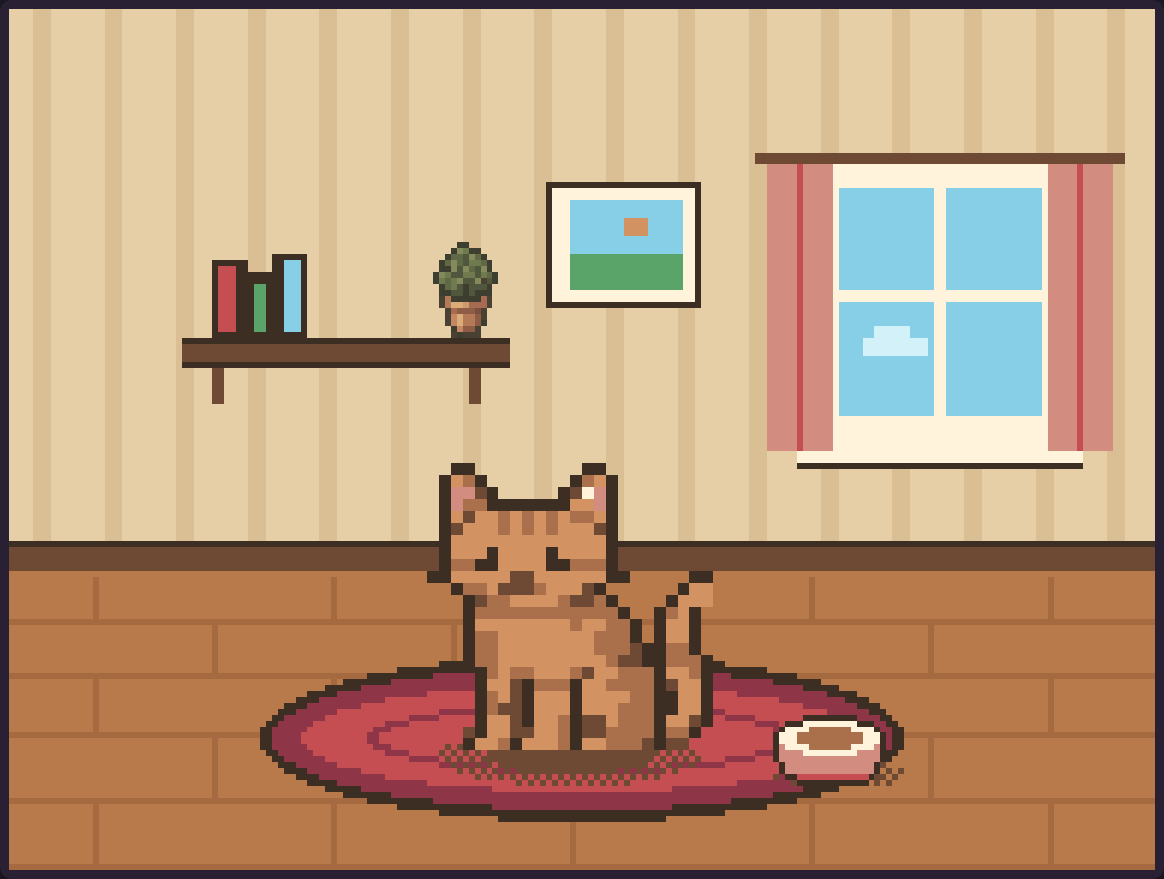
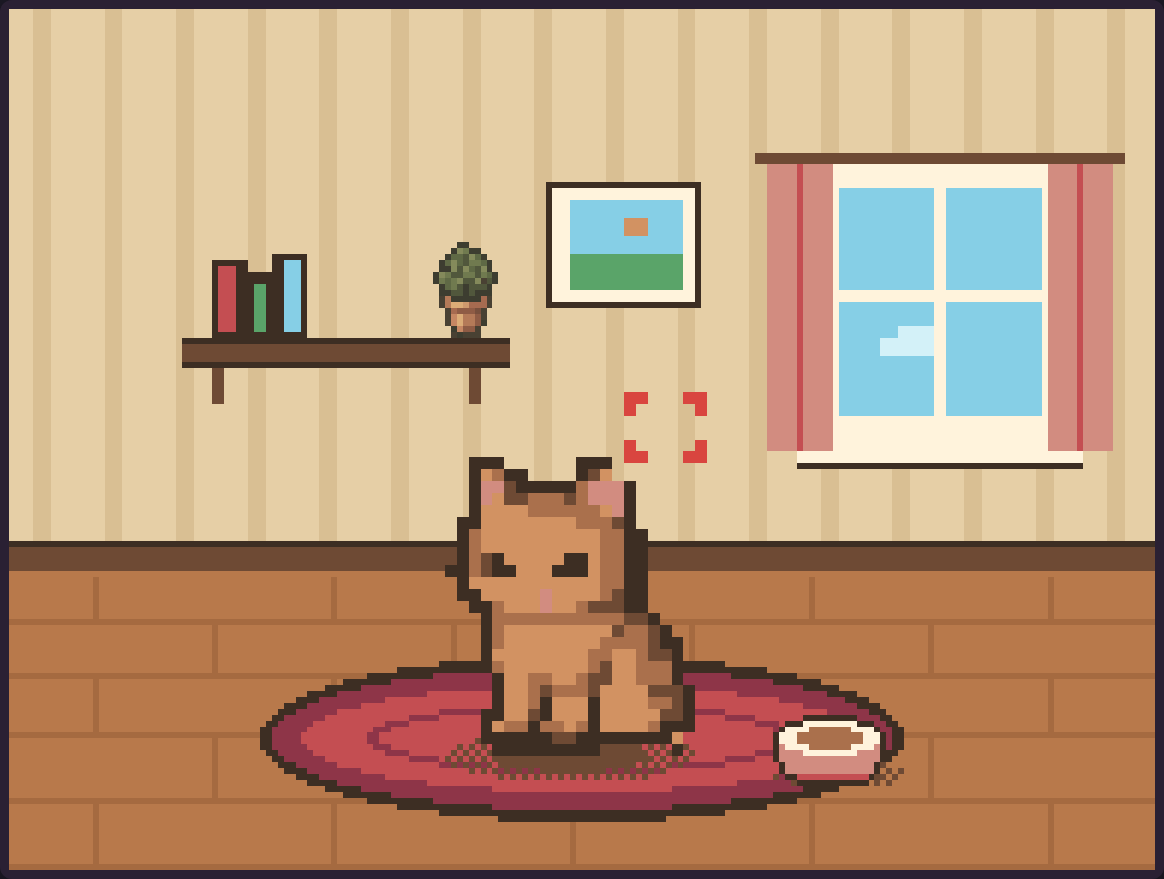
Позы кота сняты с референсов: спит, плачет, голодный, больной, злой
Claude-Session: https://claude.ai/code/session_01Qao8M8JoHe6UePoZCqr7mk

Changed region(s): [[0.3711, 0.43, 0.6186, 0.8908], [0.5876, 0.43, 0.6186, 0.5222], [0.7423, 0.3686, 0.8041, 0.3993]]

diff --git a/pixel-pet/js/assets.js b/pixel-pet/js/assets.js
@@ -1,3 +1,3 @@
 // СГЕНЕРИРОВАНО из картинок-референсов (попиксельный перенос). Руками не править.
 // Буквы — индексы цветов палитры, «.» — прозрачно.
-window.Assets = {"plants": {"pal": ["#3d3d30", "#494133", "#51573c", "#78503d", "#5f6945", "#6d545c", "#8f5c45", "#707a4f", "#7f6172", "#a66b50", "#848a5b", "#b47a58", "#9a9464", "#c58763", "#ab8099", "#b5a575", "#a8a087", "#ce996d", "#dbac77", "#cab589", "#c0bcab", "#dfca9c", "#eddcba", "#f3e9cc"], "list": [["...A.C..", ".ABVBCA.", ".ANSNRB.", "AVSDBRSA", ".ALCBGB.", "AVSBDTSA", ".ANSLRB.", ".AAVABA.", "...ACU..", "AAAXCBAA", ".BHBKHE.", "..AEEB..", ".AAAAAA.", ".DNSRJB.", ".BGGGDB.", "..BSLG..", "..BSLD..", "...BB..."], ["....AA.....", "...AKHAA...", "..AEECKEA..", ".AEKECHHEA.", ".AAKCKECKA.", "AKHCCHHCHEA", "AHEHKCCKBCA", ".AEHCACCCA.", ".AACCACAAA.", ".BLAAAAAJB.", ".BLSSRJJJB.", "..BJGGGDB..", "..BNSLLGB..", "..BNSLLGA..", "...ANGGB...", "...BABBB..."], ["...AA...", "..FIIA..", ".AAFFA..", ".BIBB...", "AOFAXAA.", ".BAEAIIA", "...HBIFA", "AA.AEAA.", "AKQA....", ".ACA.AA.", "..BAAHA.", "..KACA..", ".AAAAAA.", ".BLNLJB.", "..BGDB..", "..BJGB..", "..AJGB..", "...BB..."], [".....A......", ".....A......", ".....A......", "....BAA.....", "....AAA.....", ".....B......", "...B.B.B....", ".AAB.B.B.AA.", "AEKKAB.ACC..", "..AEKABKHAA.", ".ACCHACKAAEA", "ACHEEEMCKEA.", "AHAAAKPCABEA", "AABGGAPADBAE", "A.ADGDAADB.A", "..AGNJAGDB..", "..AGLJJDDB..", "...ADDGCA...", "....ABBB...."], ["....AA....", "...AHKA...", ".A.AMMC...", "AMAAPKC.A.", "AMAAPKAAKA", "AKEAPHAAKA", ".AEHPKACHA", "..AAMHCEA.", "....EHAA..", "....CCB...", "..BBBAABB.", "..BLSRJJB.", "...BJJGB..", "...BNRGB..", "...BNRGB..", "....BBB..."], ["AAAA...AAAA", "AHKKA.AEHCA", "AKEKEAHMBA.", ".AMEEAHAA..", "..AAEACAHBA", ".ACBAEBHCA.", "AHMKCECAA..", "AHHAAEAAAA.", "AHABBAACJB.", ".BJRRRJJGB.", "..BJGGDDB..", "..BNSNLGB..", "..BNSNLGB..", "...BNLJB...", "...BBBBB..."], ["...AB...", "..BNDA..", ".ALDGGB.", ".AJLJBB.", "..BGDA..", "...AA...", "AA......", "AHA..AAA", ".ACAAKHA", "..AABEA.", "...AA...", ".AAAAAB.", ".AJNGGB.", "..BGDB..", "..BLGB..", "...BA..."], ["...QKK.....", "..MAAAC....", "..ACKECAB..", ".AEEEEEHCB.", "AKCCKEMKCCA", "ACHCCEEEECA", "AEBCEBCCCCB", ".ABBABABBB.", ".APVVVMMEB.", ".ACHKMKCBK.", "..ATVTMBB..", "..APTPKBB..", "..AEMMHBB..", "...AAAAQ..."], [".........AAA.", ".AAA....ACC..", "..ACA..AHA...", "...AHA.AHHAA.", "....ACAECA...", ".AAAWEBHA..AA", "AACKCBCHAABH.", "...AHACCAKCA.", "..ACAHAACCACA", ".ACAAEAACA..A", ".A.BBBBBBBB..", "...BJNNJJJB..", "....BDDDDB...", "....BNNJGB...", "....BJNGGB...", ".....BGGB....", ".....BBBB...."], [".....AA.....", "...AANJA.A..", "..AKLJNGALA.", "...AALGAEA..", ".ABNBABEEAA.", ".ARGJBBCRHB.", "AHBNDAMCCAEB", "AACACBCACCA.", ".AAABAAAAAA.", ".BNSSSSSRJB.", ".BDDDDDDDDB.", "..BNNLJLGB..", "..BNRRRLGB..", "..BLRRRLGB..", "..BLLJJJDB..", "...AABBBB..."], ["....AA...", "...AHB...", "AAAAHB...", "AKCACWAAA", ".AHEABHKA", "..ABACKA.", "....AAA..", ".AA.A....", "..ACA....", "....AEAB.", ".ABAAAAB.", ".BLRRJJB.", "..BGGDB..", "..BNJGB..", "..BLJGB..", "...BBB..."], [".AA...AA.", "AKHA.AMEA", "AMHCAHMCA", "AKEEAKHCA", ".AECAHHA.", "..AAHAA..", "....A....", "....A....", ".BB.A.BB.", "BBBBBBBBB", "APVVVTPPB", ".AKMKKKB.", ".ATVPPMB.", ".ATVTPMB.", ".APTPPHB.", "..AMMMB..", "..AAABB.."], ["..A..A..", ".AKAAMA.", ".AKHAMA.", ".AHEMHA.", "..AEMEA.", "..AHMC..", "AAWAHC..", ".EAAEABA", ".QEEAEA.", "AAABABBB", "APTVVPPB", ".BMMMMB.", ".APVPMB.", ".APTPKB.", "..AMMA..", "..AAAA.."], ["..A.A..", ".ANGJ..", ".ALNJA.", ".ARNJA.", ".ANNJA.", "..BDA..", "...A...", "AA.A.AA", "AHBACKA", ".AEAHA.", ".ACACA.", "BBBABBB", "BJRSLJB", ".BGGGB.", ".BRLGB.", ".BNLGB.", "..BBB.."], ["....AA.....", "...AXPA.A..", "..ABPWCACA.", ".AHAAHABXTA", ".AAWBEAHPVA", "APVPHAXEAA.", "AXTAHXVWACA", ".AAHAMXTHA.", "..AACACAHHA", ".AACACACAA.", "..ABBBBBBB.", "..BJRRNJJB.", "...BGDDDB..", "...BJRJGB..", "...BJRJDB..", "....BJDB...", "....BBBB..."], ["...AA...", "..AXTA..", ".AWVSWA.", ".AVSNTA.", "..AWTA..", "...AA...", "AA..A.AA", ".EA.AAHA", ".ACBACA.", "..ACAA..", ".AAAAAAB", ".ALRSJJB", "..BGGDB.", "..BRLGB.", "..BNLGB.", "...BBB.."]]}, "items": {"pal": ["#352b1f", "#413325", "#414839", "#5e4128", "#4a554b", "#755334", "#8b5c3b", "#686e4c", "#566964", "#7f7a54", "#9f6e45", "#667b75", "#b1794f", "#b28b5e", "#c79b64", "#bda47d", "#d9b072", "#c7beac", "#e9ce95", "#eddaaf"], "tunnel": ["............PPPPPPPPPPPPPPPR...........", "............AAAAAAAAAAAAAAAB...........", "..........ABDDDDDDDDDDDDDDDDBBBD.......", "..........AAFFGGKKGGGGGGGGGGAAAB.......", "........BADDKGKGGGGGGGGKKGGFDDBBAP.....", "........AAGGMMMMGFKMGGKKMKGFGFDDAC.....", "......AAFFKKMMKKGGGGGGKKKGKGFFDDBBA....", "......AAKKKKKKFFGGFFKKKKFFKGFFFFFDA....", "....AADDKKDDDDDDDDDDDDDDGGFDDDFFDDDBAR.", "....AADDMMDDDDDDDDDDDDDDGGDDDDFFDDDBA..", "....AAFFDDFFFFFFFFFFFFFFDDDDDDDDDDFBAR.", "....AAGGBBNMMMMNMMMMGGGGBDDDFDDDDDFBA..", "..BBGKDDNNNMAAAAAABGMMKGGDDDDDDDDDDBA..", "..AAKKBBNNNMAAAAAAABMMKMGGDDDDDDDDDBA..", "..AAGFNMNMABAAABBBBBBBBBKKMGDDFDDDDDDBA", "..AAFFMMMMAAAABBBBBBBBBBMMMKDDFDDDFDDAA", "..AAGGOOAAAAAABBBBBBBBBBBDMMDDDDFDDDDAA", "..AAGGOOAAAAAABBBBBBBBBBBBKKDDDDFDDDDAA", "CCKKKKOOAAAAAABBBBBBBBBBBBKKKFBDDDDDDAA", "AAKKKKNNAAAAAABBBBBBBBBBBBKKKKBBDBDDDAA", "AAKGOOAAAAAAAABBBBBBBBBBBBBBMMBBDDDDDAA", "AAGGOOAAAAAAAABBBBBBBBBBBBBBMMBDDDDDDAA", "AAOQOOAAAAAAAABBBBBBBBBBBBBBMMGFDDDDDAA", "AAOOOOAAAAAAAABBBBBBBBBBBBBBMMGFDDDDDAA", "AAOOKKAAAAAAAAAAAAAAAAAAAAABMKGFDDDDDAA", "AAOOKMAAAAAAAAAAAAAAAAAAAAABMMGGDDDDDAA", "AAOOMKAAAAAABBBBBBBBBBBBBBBBMMGGDDDDDAA", "AAOOMMAAAAAABBBBBBBBBBBBBBBBMMGFDDDDDAA", "AAMMMKAAAABBBBBBBBBBBBBBBBBDMMGGDDDAA..", "AAMMKKAAAABBBBBBBBBBBBBBBBBBMMGGDDDAA..", "AAMKMMAADDDDDDDDDDDDDDDDDDDDKKGGBBA....", "AAMKMMAADDDDDDDDDDDDDDDDDDDDKKKGBBA....", "AAMMOOONMNNNNNNNMMNNNNNMNNNNNKKKAH.....", "AANNOOOOMNMMMMMMNNMMNNNMNMNNOKKGAH.....", "..AAFFGGGGGGGGGGFFFGGFFGGGGFFDAB.......", "..AAGFGGGGGGGGGGGGGGGGFGGGGGGFAB.......", "....AAAAAAAAAAAAAAAAAAAAAAAAAJ.........", "....AAAAAAAAAAAAAAAAAAAAAAAAAJ........."], "post": ["........BBBBBAABAAAAAAAAAA........", "........BBBBBBBBBBBBAAABAA........", "....BBBBNMMNNNNNNNNNNNMKKKAABB....", "....BBBBNMMMNNNNMMMMNNMMKKAABB....", "..BBQQQQOOOOMMOOOOOOMMNONONNMMAB..", "..BBQQQOOOOOMMOOOOOOMMOONONNNMBB..", "..BBOOQQQQQQQQOOOOOOOOOOOOMMGGAA..", "..BBOOQQQQQQQOQOOOOOOOOOOOMNGGBB..", "..BBGFGFKKKKKKKKKKFFFFFFFFFFFFBA..", "..BBGGGFGKKKMKKKKKFFFFFFFFFFFFAB..", "....BBBBFFFFFFFFFFFFFFFFFFAAAA....", "....BBBBFFFFFFFFFFFFFFFFFFAAAB....", "........BBAAAABBBBBBAAAAAA........", "........BBBBBABDBBBBAAAAAA........", "............BAGGGKGGAA............", "............BAGGGGGGAA............", "............BAOOONNNAA............", "............AAOOOONNAA............", "............AANMMMKKAA............", "............AANNMMKKAA............", "............AAOOONKMAA............", "............AAOOOOKMAA............", "............AAKKKKGKAA............", "............AAKKKKGKAA............", "......BAAAAAAAOOOOKKAAAAAAAA......", "......BAAAAAAAOOONKKAAAAAAAA......", "....ABKGKGGGAAKKKKGGAAFFFFFFAAAA..", "....BBGGGGGGAAKKKKGGAAFFFFFFAAAA..", "ABBBMMKKKKGGBBOOOOKMABDDFFGGKKFFAA", "BBBBMMMKKKGGBAOOOOMMABDDFGGGKKFFAA", "BBKKMMKKKKGFGGDDDDDDDDFFGGGGKKKGAA", "BBKKMMKKKKKGGGDDDDDDDDFFGGGGKKKGAA", "BBKKKGMMMMMMKKKKGKKKKKGGKKKKKGDDBB", "BBKKKKMMMMMMKKKKKKKKKKKGKKKKGGDDAA", "BBFFGGFFGGKMKKKKKKKKFFFFFFFFDDDDAA", "BBFFGGGFGGMMKKKKKKKGFFFFFFFFDDDDAA", "..BBBBGFFFFFFFFFFFFDFFDDFFDDAAAA..", "..BBBBGFFFFFFFFFFDFDDDDDFFDDAAAA..", "......AAAAAAAAAAAAAAAAAAAAAA......", "......BABBAAAAAAAAAAAAAAAAAA......"], "box": ["......BBBBBBAABABAAAAAABAAAAAAAAAAAAAAAA..", "......BBBBBBBBBBBBBBBBBBBBBBBBBAAABAAAAB..", "....BBPOQQOQQOOOOQOOOOOOOOOOOQOOQOOQOOMMAA", "....BBQOQQQOQQOOOOOOOOOOOOQOOOQOOOOOOOMMAA", "..BBQQQQQQQQQQQQQQQQQQQQQQQQQQOOOOOOKKGGAA", "..BBQQQQQQQQQQQQQQQQQQQQQQQQQQOOOOOOKKGGAA", "ABOQOONNMMMMMMMMMMMMKKMKMMKKKKKKKKGGGGFFAA", "BBOOOOMMNMMMMMMMMMMMMKMKKKMMMKKKKKGGGGDFAA", "BBOOQQQQOOOOOOOOOOOOOOOOOOOOOOOOOOGGDDAA..", "BBOOOQQOOOOOOOOOOOOOOOOOOOOOOOOOONGGDDAB..", "BBBBFFFFGFFFFFFFFFFFFFFFFFFDFFFFDDDDDDAA..", "BBBBFFFFGFFFFFFFFFFFFFFFFFFFFFFFDDDDFFAA..", "..BBNMNNNNNNNNNNNNMMNNNMNMKKMMKKDDFFFFBA..", "..BBNMNMNNNNNMNNNNMNMMMMMMMMMMKKDDFFFFAA..", "..BBPQNNOOONOONNNNNNOONNNNKKOOMNDDFFGGAA..", "..BBQQONOOOOOONNNNNNOONNOOKKOONNDDGGGGAA..", "..BBQQOOOOOODDDDAAAAAAOONNNNNNNNDDFFGGAA..", "..BBQQOOOOOODDDDAAAAAAOONNONNNNNDDFFFGAA..", "..BBPOOQONDDDDDDAAAAAAAAOONNOONNDDGFGGAA..", "..BBPOOQNNDDDDDDAAAAAAAAONNNOONNDFGGFFAA..", "..BBPONNDDDDDDDDAAAAAAAAAANNMMONDFFFFGAA..", "..BBPONNDDDDDDDDAAAAAAAAAANNMMONDDFFFGAA..", "..BBPPNNDDDDDDDDAAAAAAAAAANNOONNDDFFGGAA..", "..BBPONNDDDDDDDDAAAAAAAAAANNNOMMDDFFFFAA..", "..BBNNOODDDDDDDDAAAAAAAAAANOOONNFFGFGGAA..", "..BBNNOODDDDDDDDAAAAAAAAAANNNNNNFFGFGGAA..", "..BBPOMMDDDDDDDDAAAAAAAAAANNMMNNFFFFGGAB..", "..BBQQMNDDDDDDDDAAAAAAAAAANNNNNNFFFFGGAA..", "..BBNNNNDDFFDDBBFFFFFFFFDDNNOONNDFGGFFAA..", "..BBNNNNDDDDDDBBFFFFFFFFDDNNOONMDDGGFFAB..", "..BBPONNDDDDFFFFFFFFFFFFDDOONNONFDGFFFBBAA", "..BBPONNDDDDFFFFFFFFFFFFDDONNNNNFDGFFDBBAA", "..BBPOMMDDDDDDDDDDDDDDDDDDNNOOMKFFDDFFDDAA", "..BBPOMMDDDDDDDDDDDDDDDDDDONOOMMFFDDGFDDAA", "BBMKKKGGKKKGKKKKMMKKKKKKGGKKKKKKFFGFDDBA..", "BBKKKKKGKKKKKKKKMMKKKKKKGGGKKKKKFFGFDDAA..", "BBPOOQOOOOOOOOOOOOOOOOOOOOOOOOOOGGDFAA....", "BBQOQOOOOOOOOOOOOOOOOOOOOOOOOOOOGGDFAA....", "BBBAAAAAAAAAAAAAAAAAAAAAAAAAAAAAAAAA......", "BBBBABBAAAAAAAAAAAAAAAAAAAABBABAAAAA......"]}};
+window.Assets = {"plants": {"pal": ["#3d3d30", "#494133", "#51573c", "#78503d", "#5f6945", "#6d545c", "#8f5c45", "#707a4f", "#7f6172", "#a66b50", "#848a5b", "#b47a58", "#9a9464", "#c58763", "#ab8099", "#b5a575", "#a8a087", "#ce996d", "#dbac77", "#cab589", "#c0bcab", "#dfca9c", "#eddcba", "#f3e9cc"], "list": [["...A.C..", ".ABVBCA.", ".ANSNRB.", "AVSDBRSA", ".ALCBGB.", "AVSBDTSA", ".ANSLRB.", ".AAVABA.", "...ACU..", "AAAXCBAA", ".BHBKHE.", "..AEEB..", ".AAAAAA.", ".DNSRJB.", ".BGGGDB.", "..BSLG..", "..BSLD..", "...BB..."], ["....AA.....", "...AKHAA...", "..AEECKEA..", ".AEKECHHEA.", ".AAKCKECKA.", "AKHCCHHCHEA", "AHEHKCCKBCA", ".AEHCACCCA.", ".AACCACAAA.", ".BLAAAAAJB.", ".BLSSRJJJB.", "..BJGGGDB..", "..BNSLLGB..", "..BNSLLGA..", "...ANGGB...", "...BABBB..."], ["...AA...", "..FIIA..", ".AAFFA..", ".BIBB...", "AOFAXAA.", ".BAEAIIA", "...HBIFA", "AA.AEAA.", "AKQA....", ".ACA.AA.", "..BAAHA.", "..KACA..", ".AAAAAA.", ".BLNLJB.", "..BGDB..", "..BJGB..", "..AJGB..", "...BB..."], [".....A......", ".....A......", ".....A......", "....BAA.....", "....AAA.....", ".....B......", "...B.B.B....", ".AAB.B.B.AA.", "AEKKAB.ACC..", "..AEKABKHAA.", ".ACCHACKAAEA", "ACHEEEMCKEA.", "AHAAAKPCABEA", "AABGGAPADBAE", "A.ADGDAADB.A", "..AGNJAGDB..", "..AGLJJDDB..", "...ADDGCA...", "....ABBB...."], ["....AA....", "...AHKA...", ".A.AMMC...", "AMAAPKC.A.", "AMAAPKAAKA", "AKEAPHAAKA", ".AEHPKACHA", "..AAMHCEA.", "....EHAA..", "....CCB...", "..BBBAABB.", "..BLSRJJB.", "...BJJGB..", "...BNRGB..", "...BNRGB..", "....BBB..."], ["AAAA...AAAA", "AHKKA.AEHCA", "AKEKEAHMBA.", ".AMEEAHAA..", "..AAEACAHBA", ".ACBAEBHCA.", "AHMKCECAA..", "AHHAAEAAAA.", "AHABBAACJB.", ".BJRRRJJGB.", "..BJGGDDB..", "..BNSNLGB..", "..BNSNLGB..", "...BNLJB...", "...BBBBB..."], ["...AB...", "..BNDA..", ".ALDGGB.", ".AJLJBB.", "..BGDA..", "...AA...", "AA......", "AHA..AAA", ".ACAAKHA", "..AABEA.", "...AA...", ".AAAAAB.", ".AJNGGB.", "..BGDB..", "..BLGB..", "...BA..."], ["...QKK.....", "..MAAAC....", "..ACKECAB..", ".AEEEEEHCB.", "AKCCKEMKCCA", "ACHCCEEEECA", "AEBCEBCCCCB", ".ABBABABBB.", ".APVVVMMEB.", ".ACHKMKCBK.", "..ATVTMBB..", "..APTPKBB..", "..AEMMHBB..", "...AAAAQ..."], [".........AAA.", ".AAA....ACC..", "..ACA..AHA...", "...AHA.AHHAA.", "....ACAECA...", ".AAAWEBHA..AA", "AACKCBCHAABH.", "...AHACCAKCA.", "..ACAHAACCACA", ".ACAAEAACA..A", ".A.BBBBBBBB..", "...BJNNJJJB..", "....BDDDDB...", "....BNNJGB...", "....BJNGGB...", ".....BGGB....", ".....BBBB...."], [".....AA.....", "...AANJA.A..", "..AKLJNGALA.", "...AALGAEA..", ".ABNBABEEAA.", ".ARGJBBCRHB.", "AHBNDAMCCAEB", "AACACBCACCA.", ".AAABAAAAAA.", ".BNSSSSSRJB.", ".BDDDDDDDDB.", "..BNNLJLGB..", "..BNRRRLGB..", "..BLRRRLGB..", "..BLLJJJDB..", "...AABBBB..."], ["....AA...", "...AHB...", "AAAAHB...", "AKCACWAAA", ".AHEABHKA", "..ABACKA.", "....AAA..", ".AA.A....", "..ACA....", "....AEAB.", ".ABAAAAB.", ".BLRRJJB.", "..BGGDB..", "..BNJGB..", "..BLJGB..", "...BBB..."], [".AA...AA.", "AKHA.AMEA", "AMHCAHMCA", "AKEEAKHCA", ".AECAHHA.", "..AAHAA..", "....A....", "....A....", ".BB.A.BB.", "BBBBBBBBB", "APVVVTPPB", ".AKMKKKB.", ".ATVPPMB.", ".ATVTPMB.", ".APTPPHB.", "..AMMMB..", "..AAABB.."], ["..A..A..", ".AKAAMA.", ".AKHAMA.", ".AHEMHA.", "..AEMEA.", "..AHMC..", "AAWAHC..", ".EAAEABA", ".QEEAEA.", "AAABABBB", "APTVVPPB", ".BMMMMB.", ".APVPMB.", ".APTPKB.", "..AMMA..", "..AAAA.."], ["..A.A..", ".ANGJ..", ".ALNJA.", ".ARNJA.", ".ANNJA.", "..BDA..", "...A...", "AA.A.AA", "AHBACKA", ".AEAHA.", ".ACACA.", "BBBABBB", "BJRSLJB", ".BGGGB.", ".BRLGB.", ".BNLGB.", "..BBB.."], ["....AA.....", "...AXPA.A..", "..ABPWCACA.", ".AHAAHABXTA", ".AAWBEAHPVA", "APVPHAXEAA.", "AXTAHXVWACA", ".AAHAMXTHA.", "..AACACAHHA", ".AACACACAA.", "..ABBBBBBB.", "..BJRRNJJB.", "...BGDDDB..", "...BJRJGB..", "...BJRJDB..", "....BJDB...", "....BBBB..."], ["...AA...", "..AXTA..", ".AWVSWA.", ".AVSNTA.", "..AWTA..", "...AA...", "AA..A.AA", ".EA.AAHA", ".ACBACA.", "..ACAA..", ".AAAAAAB", ".ALRSJJB", "..BGGDB.", "..BRLGB.", "..BNLGB.", "...BBB.."]]}, "items": {"pal": ["#352b1f", "#413325", "#414839", "#5e4128", "#4a554b", "#755334", "#8b5c3b", "#686e4c", "#566964", "#7f7a54", "#9f6e45", "#667b75", "#b1794f", "#b28b5e", "#c79b64", "#bda47d", "#d9b072", "#c7beac", "#e9ce95", "#eddaaf"], "tunnel": ["............PPPPPPPPPPPPPPPR...........", "............AAAAAAAAAAAAAAAB...........", "..........ABDDDDDDDDDDDDDDDDBBBD.......", "..........AAFFGGKKGGGGGGGGGGAAAB.......", "........BADDKGKGGGGGGGGKKGGFDDBBAP.....", "........AAGGMMMMGFKMGGKKMKGFGFDDAC.....", "......AAFFKKMMKKGGGGGGKKKGKGFFDDBBA....", "......AAKKKKKKFFGGFFKKKKFFKGFFFFFDA....", "....AADDKKDDDDDDDDDDDDDDGGFDDDFFDDDBAR.", "....AADDMMDDDDDDDDDDDDDDGGDDDDFFDDDBA..", "....AAFFDDFFFFFFFFFFFFFFDDDDDDDDDDFBAR.", "....AAGGBBNMMMMNMMMMGGGGBDDDFDDDDDFBA..", "..BBGKDDNNNMAAAAAABGMMKGGDDDDDDDDDDBA..", "..AAKKBBNNNMAAAAAAABMMKMGGDDDDDDDDDBA..", "..AAGFNMNMABAAABBBBBBBBBKKMGDDFDDDDDDBA", "..AAFFMMMMAAAABBBBBBBBBBMMMKDDFDDDFDDAA", "..AAGGOOAAAAAABBBBBBBBBBBDMMDDDDFDDDDAA", "..AAGGOOAAAAAABBBBBBBBBBBBKKDDDDFDDDDAA", "CCKKKKOOAAAAAABBBBBBBBBBBBKKKFBDDDDDDAA", "AAKKKKNNAAAAAABBBBBBBBBBBBKKKKBBDBDDDAA", "AAKGOOAAAAAAAABBBBBBBBBBBBBBMMBBDDDDDAA", "AAGGOOAAAAAAAABBBBBBBBBBBBBBMMBDDDDDDAA", "AAOQOOAAAAAAAABBBBBBBBBBBBBBMMGFDDDDDAA", "AAOOOOAAAAAAAABBBBBBBBBBBBBBMMGFDDDDDAA", "AAOOKKAAAAAAAAAAAAAAAAAAAAABMKGFDDDDDAA", "AAOOKMAAAAAAAAAAAAAAAAAAAAABMMGGDDDDDAA", "AAOOMKAAAAAABBBBBBBBBBBBBBBBMMGGDDDDDAA", "AAOOMMAAAAAABBBBBBBBBBBBBBBBMMGFDDDDDAA", "AAMMMKAAAABBBBBBBBBBBBBBBBBDMMGGDDDAA..", "AAMMKKAAAABBBBBBBBBBBBBBBBBBMMGGDDDAA..", "AAMKMMAADDDDDDDDDDDDDDDDDDDDKKGGBBA....", "AAMKMMAADDDDDDDDDDDDDDDDDDDDKKKGBBA....", "AAMMOOONMNNNNNNNMMNNNNNMNNNNNKKKAH.....", "AANNOOOOMNMMMMMMNNMMNNNMNMNNOKKGAH.....", "..AAFFGGGGGGGGGGFFFGGFFGGGGFFDAB.......", "..AAGFGGGGGGGGGGGGGGGGFGGGGGGFAB.......", "....AAAAAAAAAAAAAAAAAAAAAAAAAJ.........", "....AAAAAAAAAAAAAAAAAAAAAAAAAJ........."], "post": ["........BBBBBAABAAAAAAAAAA........", "........BBBBBBBBBBBBAAABAA........", "....BBBBNMMNNNNNNNNNNNMKKKAABB....", "....BBBBNMMMNNNNMMMMNNMMKKAABB....", "..BBQQQQOOOOMMOOOOOOMMNONONNMMAB..", "..BBQQQOOOOOMMOOOOOOMMOONONNNMBB..", "..BBOOQQQQQQQQOOOOOOOOOOOOMMGGAA..", "..BBOOQQQQQQQOQOOOOOOOOOOOMNGGBB..", "..BBGFGFKKKKKKKKKKFFFFFFFFFFFFBA..", "..BBGGGFGKKKMKKKKKFFFFFFFFFFFFAB..", "....BBBBFFFFFFFFFFFFFFFFFFAAAA....", "....BBBBFFFFFFFFFFFFFFFFFFAAAB....", "........BBAAAABBBBBBAAAAAA........", "........BBBBBABDBBBBAAAAAA........", "............BAGGGKGGAA............", "............BAGGGGGGAA............", "............BAOOONNNAA............", "............AAOOOONNAA............", "............AANMMMKKAA............", "............AANNMMKKAA............", "............AAOOONKMAA............", "............AAOOOOKMAA............", "............AAKKKKGKAA............", "............AAKKKKGKAA............", "......BAAAAAAAOOOOKKAAAAAAAA......", "......BAAAAAAAOOONKKAAAAAAAA......", "....ABKGKGGGAAKKKKGGAAFFFFFFAAAA..", "....BBGGGGGGAAKKKKGGAAFFFFFFAAAA..", "ABBBMMKKKKGGBBOOOOKMABDDFFGGKKFFAA", "BBBBMMMKKKGGBAOOOOMMABDDFGGGKKFFAA", "BBKKMMKKKKGFGGDDDDDDDDFFGGGGKKKGAA", "BBKKMMKKKKKGGGDDDDDDDDFFGGGGKKKGAA", "BBKKKGMMMMMMKKKKGKKKKKGGKKKKKGDDBB", "BBKKKKMMMMMMKKKKKKKKKKKGKKKKGGDDAA", "BBFFGGFFGGKMKKKKKKKKFFFFFFFFDDDDAA", "BBFFGGGFGGMMKKKKKKKGFFFFFFFFDDDDAA", "..BBBBGFFFFFFFFFFFFDFFDDFFDDAAAA..", "..BBBBGFFFFFFFFFFDFDDDDDFFDDAAAA..", "......AAAAAAAAAAAAAAAAAAAAAA......", "......BABBAAAAAAAAAAAAAAAAAA......"], "box": ["......BBBBBBAABABAAAAAABAAAAAAAAAAAAAAAA..", "......BBBBBBBBBBBBBBBBBBBBBBBBBAAABAAAAB..", "....BBPOQQOQQOOOOQOOOOOOOOOOOQOOQOOQOOMMAA", "....BBQOQQQOQQOOOOOOOOOOOOQOOOQOOOOOOOMMAA", "..BBQQQQQQQQQQQQQQQQQQQQQQQQQQOOOOOOKKGGAA", "..BBQQQQQQQQQQQQQQQQQQQQQQQQQQOOOOOOKKGGAA", "ABOQOONNMMMMMMMMMMMMKKMKMMKKKKKKKKGGGGFFAA", "BBOOOOMMNMMMMMMMMMMMMKMKKKMMMKKKKKGGGGDFAA", "BBOOQQQQOOOOOOOOOOOOOOOOOOOOOOOOOOGGDDAA..", "BBOOOQQOOOOOOOOOOOOOOOOOOOOOOOOOONGGDDAB..", "BBBBFFFFGFFFFFFFFFFFFFFFFFFDFFFFDDDDDDAA..", "BBBBFFFFGFFFFFFFFFFFFFFFFFFFFFFFDDDDFFAA..", "..BBNMNNNNNNNNNNNNMMNNNMNMKKMMKKDDFFFFBA..", "..BBNMNMNNNNNMNNNNMNMMMMMMMMMMKKDDFFFFAA..", "..BBPQNNOOONOONNNNNNOONNNNKKOOMNDDFFGGAA..", "..BBQQONOOOOOONNNNNNOONNOOKKOONNDDGGGGAA..", "..BBQQOOOOOODDDDAAAAAAOONNNNNNNNDDFFGGAA..", "..BBQQOOOOOODDDDAAAAAAOONNONNNNNDDFFFGAA..", "..BBPOOQONDDDDDDAAAAAAAAOONNOONNDDGFGGAA..", "..BBPOOQNNDDDDDDAAAAAAAAONNNOONNDFGGFFAA..", "..BBPONNDDDDDDDDAAAAAAAAAANNMMONDFFFFGAA..", "..BBPONNDDDDDDDDAAAAAAAAAANNMMONDDFFFGAA..", "..BBPPNNDDDDDDDDAAAAAAAAAANNOONNDDFFGGAA..", "..BBPONNDDDDDDDDAAAAAAAAAANNNOMMDDFFFFAA..", "..BBNNOODDDDDDDDAAAAAAAAAANOOONNFFGFGGAA..", "..BBNNOODDDDDDDDAAAAAAAAAANNNNNNFFGFGGAA..", "..BBPOMMDDDDDDDDAAAAAAAAAANNMMNNFFFFGGAB..", "..BBQQMNDDDDDDDDAAAAAAAAAANNNNNNFFFFGGAA..", "..BBNNNNDDFFDDBBFFFFFFFFDDNNOONNDFGGFFAA..", "..BBNNNNDDDDDDBBFFFFFFFFDDNNOONMDDGGFFAB..", "..BBPONNDDDDFFFFFFFFFFFFDDOONNONFDGFFFBBAA", "..BBPONNDDDDFFFFFFFFFFFFDDONNNNNFDGFFDBBAA", "..BBPOMMDDDDDDDDDDDDDDDDDDNNOOMKFFDDFFDDAA", "..BBPOMMDDDDDDDDDDDDDDDDDDONOOMMFFDDGFDDAA", "BBMKKKGGKKKGKKKKMMKKKKKKGGKKKKKKFFGFDDBA..", "BBKKKKKGKKKKKKKKMMKKKKKKGGGKKKKKFFGFDDAA..", "BBPOOQOOOOOOOOOOOOOOOOOOOOOOOOOOGGDFAA....", "BBQOQOOOOOOOOOOOOOOOOOOOOOOOOOOOGGDFAA....", "BBBAAAAAAAAAAAAAAAAAAAAAAAAAAAAAAAAA......", "BBBBABBAAAAAAAAAAAAAAAAAAAABBABAAAAA......"]}, "cats": {"pal": {"K": "#3d2e23", "d": "#6e4a34", "m": "#aa704c", "o": "#d29262", "l": "#eed0aa", "p": "#d28c80", "w": "#faeed7", "b": "#96c3eb", "r": "#d9453f", "g": "#5f5a55"}, "sleep": ["...KKK.......................", "..KomKK......................", "..Kppmd.........KKK..........", "..KppodKK.....KKmoK..........", "..KpppoKKKKKKKdoppKK.........", "..KpppmmmmommdopppKKKK.......", "..KpmmoommommoopppKdmmKK.....", "..KmooooooommoommpKdmmdK.....", ".KKmooooooooooommpKdmmmmK....", ".KmoooooooooooooomKmmmoodKK..", "KKooooooooooooooomKmmooomK...", "KKoooooooooooooooodgmooomKK..", "KmooKmmoooooopooomdKmoooomKK.", "KmmoKKKooooKKKKoomdmmoooomKK.", "Kmmo.oooppoooopommKKmooommddK", ".Kmo.oooddooooommddmmmmmmdddK", ".KKm.ooKmKpooomdKKKKKdmmmdmmK", "..KK.mmooppomdKmmooomdKKdmmmK", "..Kp.ommddmmmKppooooooomommmK", ".KKo.omKooooKoooopooooommmmdK", "..Ko.mKoooooKooooommooommmdKK", "..KK.KKooommKmmmoommmmmddmKKm", ".....K.KKKKKKKmmommdmmmKKKKoK", "............oKKKKKKKKKKKg..K.", "............K...........K...."], "hungry": [".KKK........K............", ".KdKK.....KKKKK..........", ".KpmKK...KKmpmK..........", ".KppmKKKKKmpppK..........", ".KpmdmmmmdmpppK..........", ".KmmmmmommmmopK..........", "KKooooooommmmmK..........", "KmoooooooooomdK..........", "KooooooooooommKK.........", "KmKKpoopdKoomdK..........", "KmdKpoooKKoommKK.........", "KoooooopppoomdK..........", "KKoopdoooooomdK..........", ".KKooooooommdddKK........", "...KmmmmmmmmmmmdKK.......", "...KmooooooommmmmKK......", "...KmooooooommmmmmKK.....", "...KooooooooooommmdK.....", "...KmpooooooooommmmK.KKK.", "....KoooooommooommmKKKmKK", "......oooooddooommmdKKoKK", ".....KmdoooKoooommmdKmmKK", ".....KmKoooKoooooomddmmKK", ".....KKKpodKoooooodddddK.", ".....KKomodKooooomdKKKK..", "......KKKKKKKKKKKKKK....."], "sick": ["....KK........KKK......", "...KmKK......KmmK......", "...KpmKKKKKKKmppK......", "..KKomdmmmddmmppK......", "..KKmmmmmmdmmmppK......", "..KdmmmmpmmmmmmpK......", ".KKmmmoppommmmmdKK.....", ".KmmmmoppoommmmmKK.....", "KKmooooppooooommKK.....", ".KmoKoopppdooomdKK.....", "KKmoKKpllpKKKommKKK....", ".KmooplmmllpppmmKKKK...", ".KKollldmllpmmmKdmmKK..", "..KKKmoppppmdKmmmmmdK..", "...KKmmmmooooommmmmmKK.", "...KKoooooooommmoommdK.", "....KmoooooooddooommmK.", "....KmoomdoooKooooommK.", "....KmooKdooodmoooomddK", "...KKoomKpooommoooomddK", ".KmKmopmKoooommoommmKKK", "..m.KKKKKKKKKKKKKKKK...", "..K.KKK................"], "angry": ["..KKK......KKK.......", "..KomKK....Kdo.......", "..KppdKKKKKmpppK.....", "..KpoddmmmdmpppK.....", "..KoooommmmmmopK.....", ".KKoooooooommmdK.....", ".KmoooooooooommKK....", ".KmoooooooooommKK....", ".KmdKoooooKKommKK....", "KKmdKKoooKKKommKK....", ".KooooooooooommKK....", ".KKooooopoooomdKK....", "..KKmooopoomdddKK....", "...KmmmmmmmmmmmddK...", "...KmooooooooodmmdK..", "...KmoooooooommmmdKK.", "...KoooooooommoomddK.", "...KmooooooomdoommmK.", "....KoommoomddoommmK.", "....KoomdmmmdoooodddK", "....KoomKoooKoooommdK", "...KKoodKoooKoooooddK", "...KommKmmomKoooomKKK", "...KKKKKKddKKKKKKKKo.", "....KKKKKKKKK......K."], "cry": ["KKK........KKK.....", "KppKK....KKmpK.....", "KpppmKKKKKoppK.....", "KpppmmmmmomppK.....", "KppommmmmopppK.....", "KmopmmmmmopopKK....", "KoooppoooooopKK....", "KppopopppooommmK...", "KpppoopppppommmK...", "KoKKKoppKKKpmKoK...", "KobopppopobomKmK...", "KmbppopopobommmKm..", ".KbopooopobmmpmmK..", "..KmmmmmmmopommmK..", "..KmmmmmmmmmooomK..", "..KmmmpppmmmpopmmK.", "...KmmmpmmKpommmmK.", "...KmmmopmmppmmmmK.", "...KmmKmmmmppopmmKK", "...KopKpoKKmoommmmK", "..KoomoooKoommmmmKK", "..KpompmpKoommmKKK.", "...KKKKKKKKKKKK...."]}};

diff --git a/pixel-pet/js/sprites.js b/pixel-pet/js/sprites.js
@@ -105,21 +105,13 @@
     return cv;
   }
   // o: { head: на сколько пикселей опущена голова, tail: -2..2,
-  //      eyes: 'open' | 'closed' | 'cry' | 'hungry' | 'sick' | 'angry', tear: 0|1 }
+  //      eyes: 'open' | 'closed' }
   function cat(o) {
     const key = o.head + '|' + o.eyes + '|' + o.tail + '|' + (o.tear || 0);
     if (catCache[key]) return catCache[key];
     const g = CAT.map(r => r.split(''));
     const lids = () => { g[7][4] = g[7][5] = g[7][10] = g[7][11] = 'o'; };        // веки: остаётся нижняя чёрточка
-    if (o.eyes === 'closed' || o.eyes === 'sick') lids();
-    if (o.eyes === 'cry') {                                                       // плачет: глаза закрыты, ручьи слёз
-      lids();
-      const n = 3 + (o.tear || 0);
-      for (let i = 0; i < n; i++) { g[9 + i][4] = 'b'; g[9 + i][11] = 'b'; }
-    }
-    if (o.eyes === 'hungry') { g[7][5] = 'K'; g[7][10] = 'K'; }                   // тусклые глаза без блика
-    if (o.eyes === 'angry') { g[7][4] = 'o'; g[7][11] = 'o'; g[7][5] = 'K'; g[7][10] = 'K'; } // сердитый прищур
-    if (o.eyes === 'sick') { g[11][14] = 'b'; }                                   // капелька пота у щеки
+    if (o.eyes === 'closed') lids();
     const sway = Math.round(o.tail / 2);                                          // хвост: кончик ±1
     if (sway) for (let r = 10; r <= 12; r++) {
       const row = g[r].slice(19);
@@ -137,36 +129,18 @@
     return (catCache[key] = scaled(B.toCanvas(), CAT_SCALE));
   }
 
-  // ---- Спящий кот клубком (рисуется процедурно слоями: тело, хвост, голова; у каждого свой контур) ----
-  Buf.prototype.paste = function (L) { for (let i = 0; i < L.d.length; i++) if (L.d[i]) this.d[i] = L.d[i]; };
-  const sleepCache = {};
-  function catSleep(breath) {
-    const key = breath ? 1 : 0;
-    if (sleepCache[key]) return sleepCache[key];
-    const W = 38, H = 22;
-    // тело-«буханка» (дыхание: верх поднимается на 1 пиксель)
-    const body = new Buf(W, H);
-    if (breath) body.ellipse(22, 10.5, 13, 6.5, 'orange'); else body.ellipse(22, 11, 13, 6, 'orange');
-    for (let x = 16; x <= 31; x += 3) for (let y = 4; y <= 7; y++) if (body.d[y * W + x]) body.set(x, y, 'orangeDark');
-    body.outline('ink');
-    // хвост лежит спереди и обвивает тело
-    const tail = new Buf(W, H);
-    tail.ellipse(26, 15.5, 11, 2.8, 'orange'); tail.ellipse(35, 14, 2, 2.5, 'orange');
-    for (let x = 20; x <= 32; x += 3) for (let y = 13; y <= 18; y++) if (tail.d[y * W + x]) tail.set(x, y, 'orangeDark');
-    tail.outline('ink');
-    // передние лапы, голова с ушами
-    const head = new Buf(W, H);
-    head.rect(3, 15, 6, 3, 'orange'); head.rect(10, 15, 6, 3, 'orange');
-    head.ellipse(9, 11, 7, 5.5, 'orange');
-    [[1, 3, 3], [2, 3, 4], [3, 3, 5], [4, 3, 6], [5, 3, 7]].forEach(r => head.rect(r[1], r[0], r[2] - r[1] + 1, 1, 'orange'));
-    [[1, 14, 14], [2, 13, 14], [3, 12, 14], [4, 11, 14], [5, 10, 14]].forEach(r => head.rect(r[1] - 1, r[0], r[2] - r[1] + 1, 1, 'orange'));
-    head.rect(4, 3, 1, 1, 'pink'); head.rect(4, 4, 2, 1, 'pink'); head.rect(12, 3, 1, 1, 'pink'); head.rect(11, 4, 2, 1, 'pink');
-    head.rect(9, 6, 1, 2, 'orangeDark'); head.rect(6, 7, 1, 1, 'orangeDark'); head.rect(12, 7, 1, 1, 'orangeDark');
-    head.rect(5, 11, 2, 1, 'ink'); head.rect(11, 11, 2, 1, 'ink');             // закрытые глаза
-    head.rect(8, 12, 2, 1, 'pink'); head.set(8, 13, 'ink'); head.set(9, 13, 'ink');
-    head.outline('ink');
-    body.paste(tail); body.paste(head);
-    return (sleepCache[key] = scaled(body.toCanvas(), CAT_SCALE));
+  // ---- Позы с картинок-референсов (спит клубком, плачет, голодный, больной, злой) ----
+  // Снимаются из assets.js (генерируется из картинок), рисуются ×2 как и сидящий кот.
+  const poseCache = {};
+  function pose(name) {
+    if (poseCache[name]) return poseCache[name];
+    const C = window.Assets.cats, rows = C[name], h = rows.length, w = rows[0].length;
+    const cv = document.createElement('canvas'); cv.width = w; cv.height = h; const g = cv.getContext('2d');
+    for (let y = 0; y < h; y++) for (let x = 0; x < w; x++) {
+      const ch = rows[y][x]; if (ch === '.') continue;
+      g.fillStyle = C.pal[ch]; g.fillRect(x, y, 1, 1);
+    }
+    return (poseCache[name] = scaled(cv, CAT_SCALE));
   }
 
   // ---- Значки состояний: «!», завиток, значок злости, капля, Zzz, сердечко, пузырь ----
@@ -178,7 +152,7 @@
     if (outline) B.outline(outline);
     return (fxCache[name] = scaled(B.toCanvas(), 2));
   }
-  const excl = () => icon('excl', ['##', '##', '##', '##', '..', '##'], 'red', 'ink');
+  const excl = () => icon('excl', ['##', '##', '##', '##', '..', '##'], 'orangeDark');
   const swirl = () => icon('swirl', ['.####.', '#....#', '#.##.#', '#.#..#', '#.####', '.#....'], 'wood');
   const anger = () => icon('anger', ['##...##', '#.....#', '.......', '.......', '#.....#', '##...##'], 'red');
   let heartC, bubbleC;
@@ -225,5 +199,5 @@
   const plantImg = i => fromRows('p' + i, window.Assets.plants.list[i], window.Assets.plants.pal);
   const itemImg = n => fromRows('i' + n, window.Assets.items[n], window.Assets.items.pal);
 
-  window.Sprites = { PAL, Buf, fillEllipse, shadow, cat, catSleep, excl, swirl, anger, heart, bubble, zed, bowl, plantImg, itemImg };
+  window.Sprites = { PAL, Buf, fillEllipse, shadow, cat, pose, excl, swirl, anger, heart, bubble, zed, bowl, plantImg, itemImg };
 })();

diff --git a/pixel-pet/js/pet.js b/pixel-pet/js/pet.js
@@ -113,19 +113,21 @@
 
     // ---------- анимации ----------
     anim(t) {
-      const st = this.state(), breath = Math.floor(t / 1200) % 2, tear = Math.floor(t / 500) % 2;
-      if (st === 'hungry') return { st, head: 1 + breath, eyes: 'hungry', tail: 0 };
-      if (st === 'cry') return { st, head: 1 + breath, eyes: 'cry', tail: 0, tear };
-      if (st === 'sick') return { st, head: 2 + breath, eyes: 'sick', tail: 0 };
-      if (st === 'angry') return { st, head: breath, eyes: 'angry', tail: Math.round(Math.sin(t / 160) * 2) };
-      if (st === 'sleep') return { st, breath };
+      const st = this.state(), breath = Math.floor(t / 1200) % 2;
+      if (st !== 'ok') return { st, breath };              // позы с картинок: сидит, плачет, спит…
       return { st, head: breath, eyes: (t % 3600) > 3400 ? 'closed' : 'open', tail: Math.round(Math.sin(t / 450) * 2) };
+    },
+    // положение позы: по центру, лапы на полу
+    poseBox(name) {
+      const img = window.Sprites.pose(name);
+      return { img, x: Math.round(94 - img.width / 2), y: 124 - img.height };
     },
     draw(ctx, t) {
       const a = this.anim(t), f = this.fx, S = window.Sprites;
-      if (a.st === 'sleep') {                                    // спит клубком
-        S.shadow(ctx, this.x + 36, 125, 32, 4.5);
-        ctx.drawImage(S.catSleep(a.breath), this.x - 8, 124 - 36);
+      if (a.st !== 'ok') {
+        const name = a.st === 'cry' ? 'cry' : a.st, bx = this.poseBox(name);
+        S.shadow(ctx, 94, 125, bx.img.width / 2, 4.5);
+        ctx.drawImage(bx.img, bx.x, bx.y + (a.breath ? 1 : 0));
         return;
       }
       // прыжок при игре: два подскока
@@ -143,15 +145,14 @@
         if (p.type === 'crumb') { ctx.fillStyle = S.PAL.orangeDark; ctx.fillRect(x, y, 2, 2); }
         else ctx.drawImage(p.type === 'heart' ? S.heart() : S.bubble(), x, y);
       });
-      // значки состояния рядом с котом
-      const st = this.state(), bob = Math.floor(t / 400) % 2, X = this.x, Y = this.y;
-      if (st === 'hungry') { ctx.drawImage(S.excl(), X + 42, Y - 10 - bob); ctx.drawImage(S.excl(), X + 52, Y - 4 + bob); }
-      if (st === 'sick') {
-        ctx.drawImage(S.swirl(), X + 14, Y - 8 + bob);
-        const dp = Math.floor((t / 350) % 4);                       // капелька пота стекает
-        ctx.fillStyle = S.PAL.sky; ctx.fillRect(X + 34, Y + 14 + dp * 2, 2, 3);
+      // значки состояния рядом с котом (позы берутся с картинок, значки рисуются поверх)
+      const st = this.state(), bob = Math.floor(t / 400) % 2;
+      if (st === 'hungry' || st === 'sick' || st === 'angry') {
+        const bx = this.poseBox(st), X = bx.x, Y = bx.y;
+        if (st === 'hungry') { ctx.drawImage(S.excl(), X + 40, Y + 4 - bob); ctx.drawImage(S.excl(), X + 49, Y + 10 + bob); }
+        if (st === 'sick') ctx.drawImage(S.swirl(), X + 2, Y - 14 + bob);
+        if (st === 'angry' && Math.floor(t / 450) % 2 === 0) ctx.drawImage(S.anger(), X + 28, Y - 12);
       }
-      if (st === 'angry' && Math.floor(t / 450) % 2 === 0) ctx.drawImage(S.anger(), X + 32, Y - 6);
     },
     // затемнение и Zzz для сна
     drawSleep(ctx, t, W, H) {
@@ -161,7 +162,7 @@
       ctx.fillStyle = 'rgba(14,10,46,' + (0.5 * f.fade).toFixed(3) + ')';
       ctx.fillRect(0, 0, W, H);
       if (!this.data.sleeping) return;
-      const S = window.Sprites, ph = (t / 1400) % 1, bx = this.x + 22, by = this.y + 10;
+      const S = window.Sprites, ph = (t / 1400) % 1, bx = 84, by = 72;
       [[0, 1], [0.33, 2], [0.66, 2]].forEach(([off, k], i) => {
         const p = (ph + off) % 1;
         S.zed(ctx, Math.round(bx + i * 6 + p * 6), Math.round(by - p * 22 - i * 2), k);
